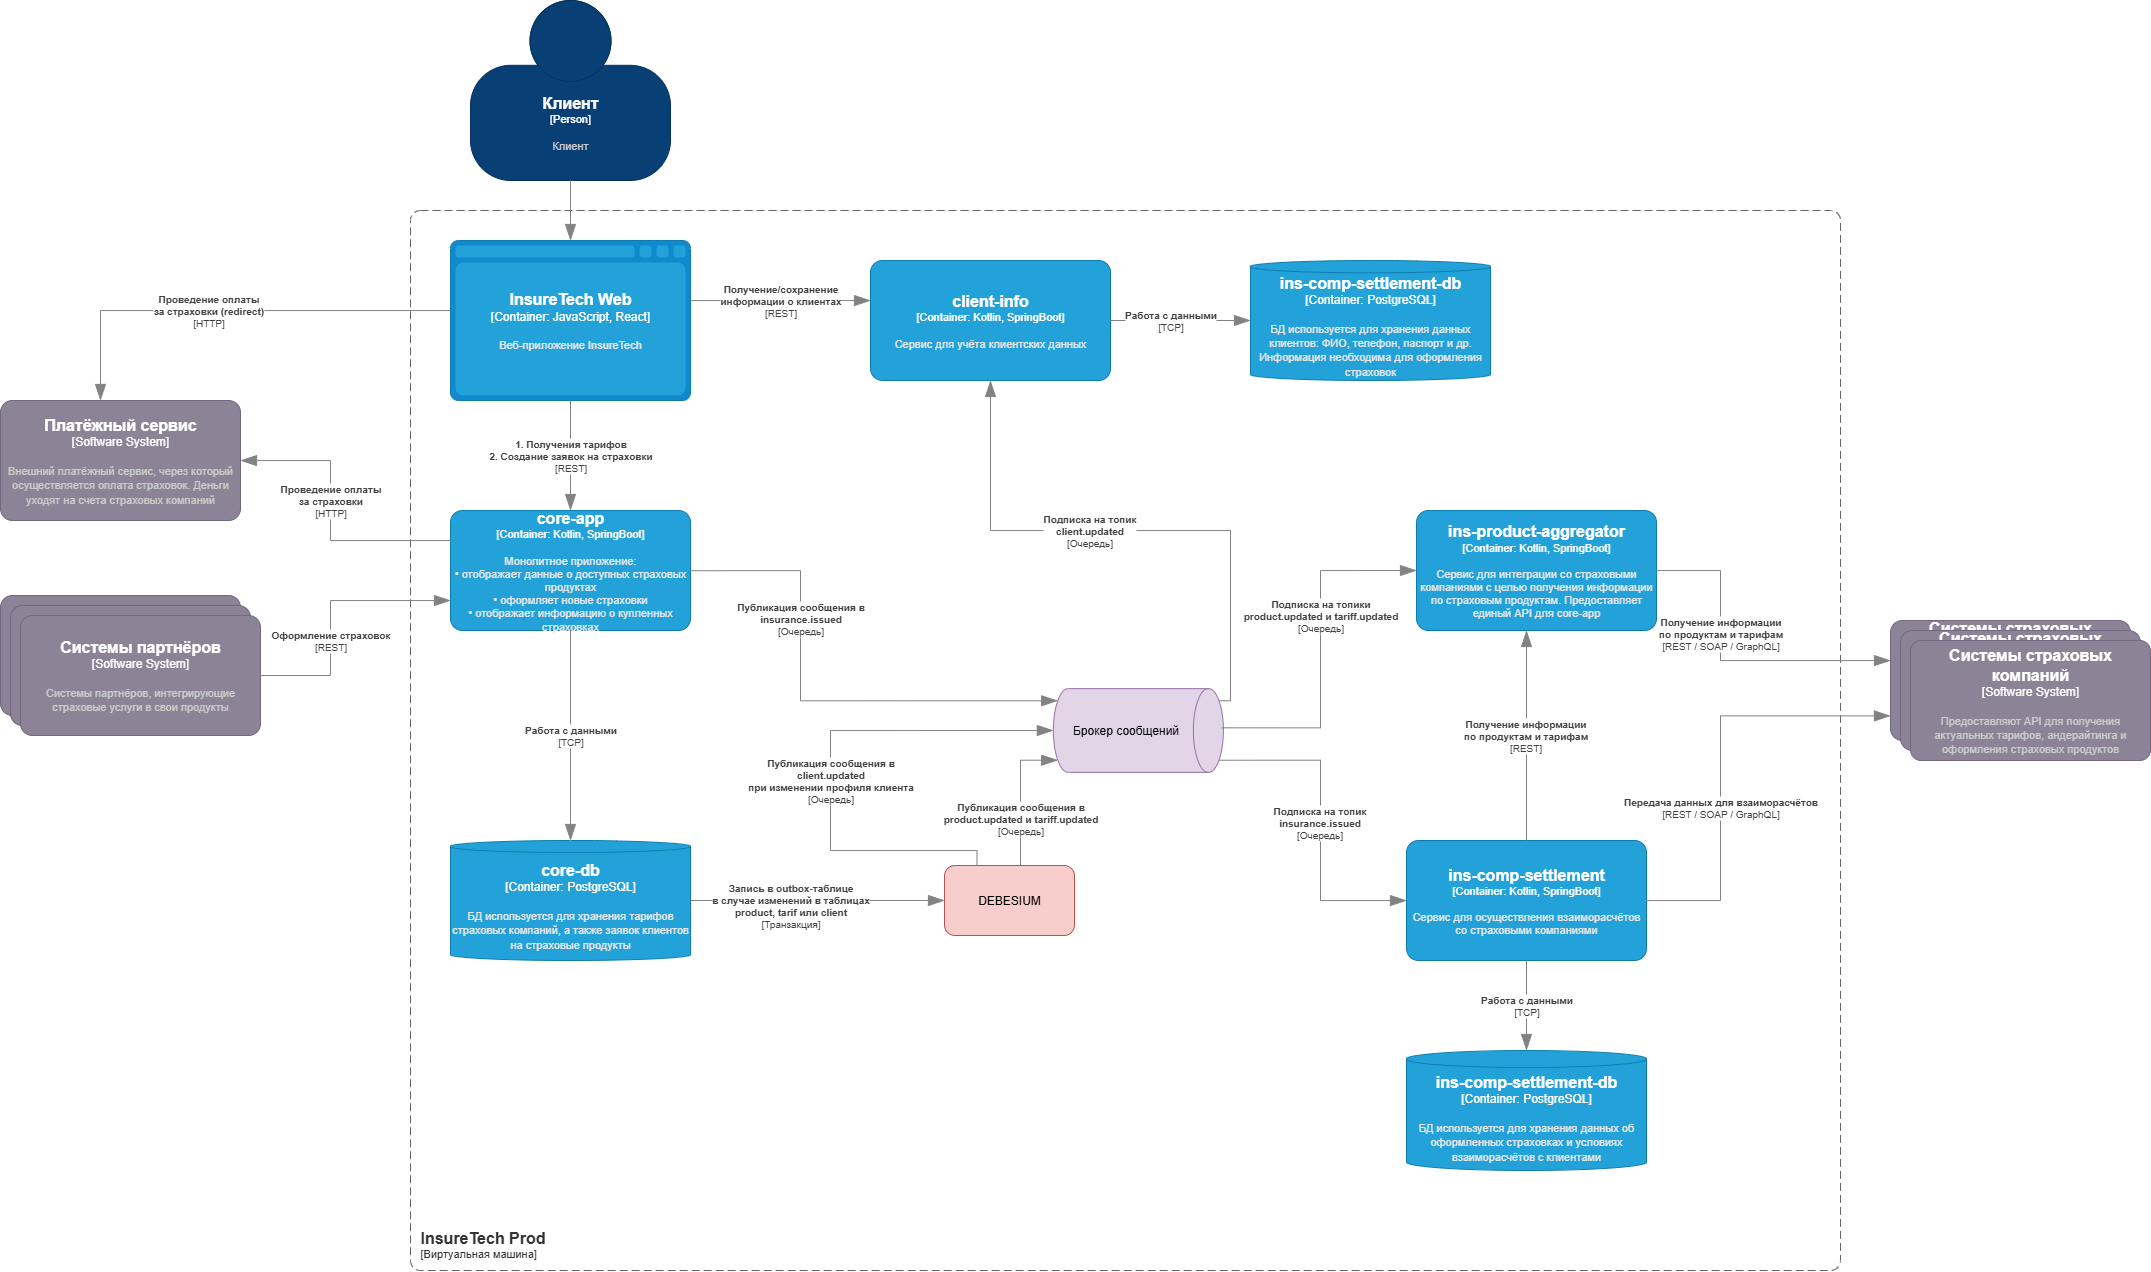
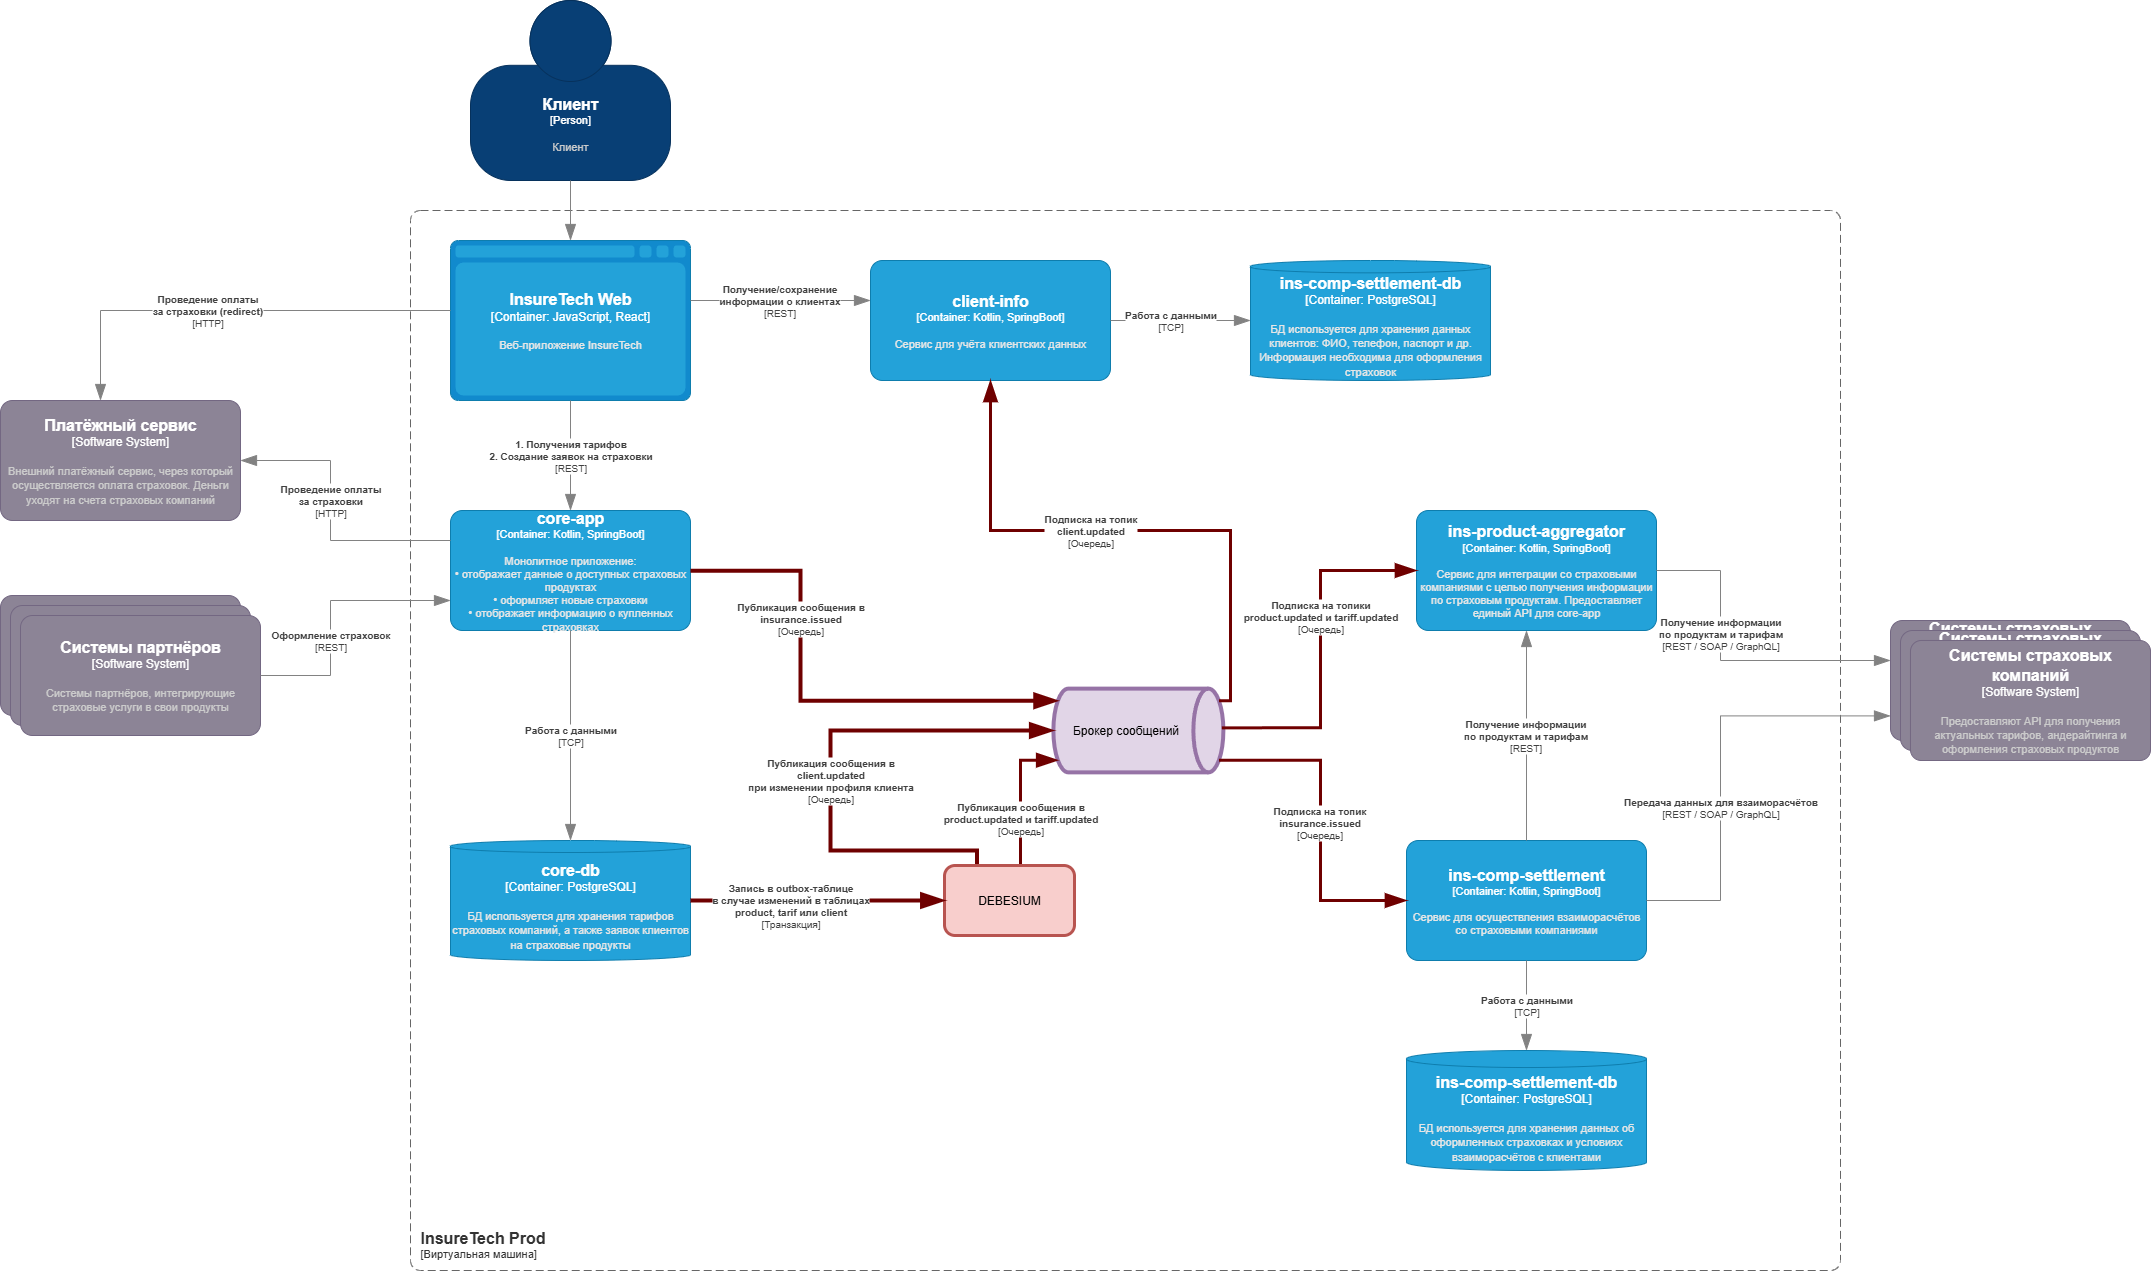
task-4

diff --git a/Task4/README.md b/Task4/README.md
@@ -1,0 +1,17 @@
+### [С4-схема](InsureTech_C4.drawio) с ОСАГО-интеграцией
+
+![InsureTech_C4.png](InsureTech_C4.png)
+
+### Паттерны отказоустойчивости
+
+1) Rate Limiting
+* На API core-app (чтобы B2B-партнёр или бот не зафлудил заявками).
+* На osago-aggregator для защиты от перегрузки при пике (2,5k параллельных).
+2) Circuit Breaker
+* В osago-aggregator при обращении к страховым компаниям: если компания недоступна, быстро отсекаем запросы, чтобы не ждать 60 секунд каждый раз.
+3) Retry
+* В osago-aggregator при временных сбоях (HTTP 500, network timeout).
+* С экспоненциальной задержкой и лимитом количества попыток.
+4) Timeout
+* На все внешние вызовы страховых компаний.
+* 60 секунд — это максимум для бизнес-процесса, но внутри aggregator стоит ставить меньше (например, 10–15 секунд на каждый запрос к эндпоинту).